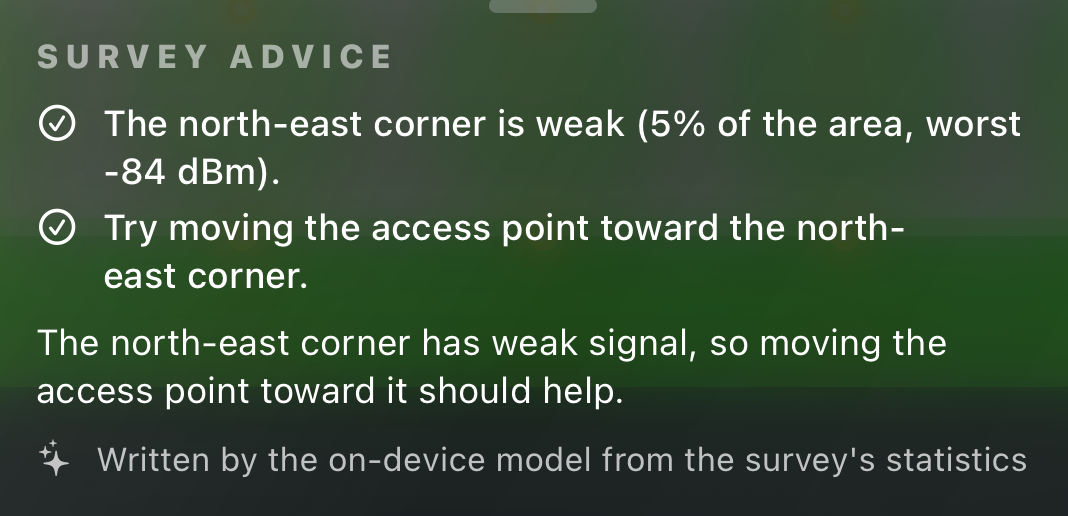
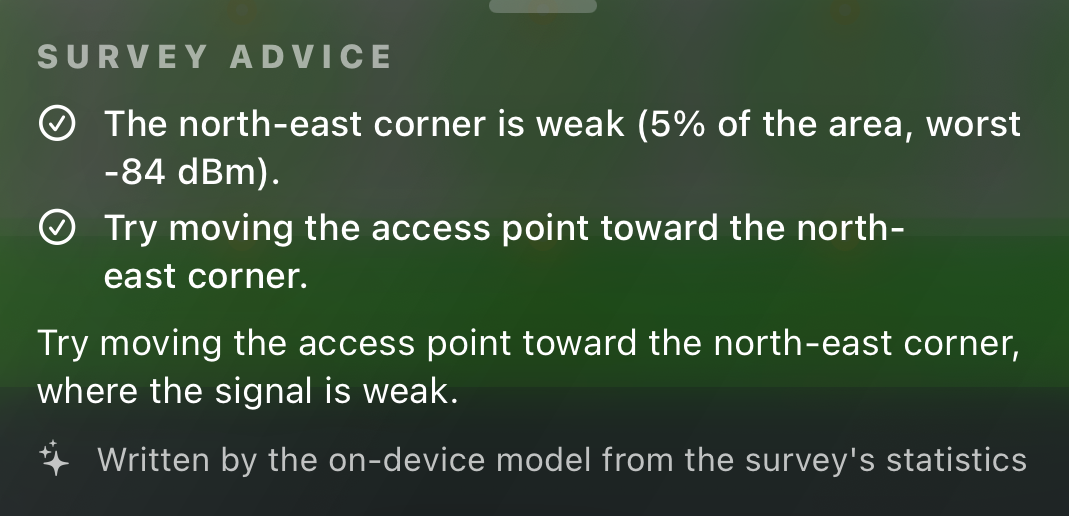
Evidence for #455 after lead review: re-captured screenshots, probe source and output

diff --git a/probe-main.swift b/probe-main.swift
@@ -1,0 +1,61 @@
+import Foundation
+import NetMonitorCore
+
+// #455 real-model probe: three synthetic surveys through the shipped InsightService, checked the
+// way the card checks them (InsightSummarizer, then HeatmapAdvisorRequest.accepts).
+
+let plan = FloorPlan(imageData: Data(), widthMeters: 12, heightMeters: 9, pixelWidth: 120, pixelHeight: 90)
+
+func lattice(_ rssi: (Double, Double) -> Int, bssid: (Double, Double) -> String? = { _, _ in "AA:BB:CC:DD:EE:01" }) -> [MeasurementPoint] {
+    stride(from: 0.0, through: 1.0, by: 0.25).flatMap { y in
+        stride(from: 0.0, through: 1.0, by: 0.25).map { x in
+            MeasurementPoint(floorPlanX: x, floorPlanY: y, rssi: rssi(x, y), bssid: bssid(x, y))
+        }
+    }
+}
+
+// 1. Weak north-east corner, one AP.
+let weakCorner = lattice { x, y in x >= 0.75 && y <= 0.25 ? -84 : -52 }
+// 2. Large weak south half, two APs, rooms labelled.
+let roomPlan = FloorPlan(imageData: Data(), widthMeters: 12, heightMeters: 9, pixelWidth: 120, pixelHeight: 90,
+                         roomLabels: [RoomLabel(text: "Kitchen", normalizedX: 0.2, normalizedY: 0.2),
+                                      RoomLabel(text: "Garage", normalizedX: 0.5, normalizedY: 0.85)])
+let weakSouth = lattice({ _, y in y >= 0.75 ? -82 : -58 }, bssid: { x, _ in x < 0.9 ? "AA:BB:CC:DD:EE:01" : "AA:BB:CC:DD:EE:2F" })
+// 3. Good everywhere.
+let allGood = lattice { x, y in -48 - Int((x + y) * 8) }
+
+let surveys: [(String, [MeasurementPoint], FloorPlan)] = [
+    ("weak north-east corner, one AP", weakCorner, plan),
+    ("weak south (Garage room label), two APs", weakSouth, roomPlan),
+    ("good everywhere", allGood, plan)
+]
+let service = InsightService.shared
+print("model available: \(service.isAvailable)")
+for (name, points, floorPlan) in surveys {
+    guard case let .ready(advisor) = HeatmapAdvisorBuilder.advice(
+        points: points, floorPlan: floorPlan, accessPointNames: ["AA:BB:CC:DD:EE:01": "Living Room AP"]
+    ) else {
+        print("\(name): sparse")
+        continue
+    }
+    let request = advisor.request
+    print("\n=== \(name)")
+    print("--- key points shown on the card:")
+    for point in advisor.keyPoints {
+        print("* \(point)")
+    }
+    print("--- prompt to the model:")
+    print(request.prompt)
+    var raw = ""
+    for await update in service.explain(request) {
+        if case let .finished(text) = update {
+            raw = text
+        }
+    }
+    print("--- raw model text:\n\(raw)")
+    print("grounded: \(InsightGrounding.isGrounded(raw, in: request)), clean: \(InsightTextFilter.isClean(raw, in: request))")
+    print("places and action check: \(advisor.accepts(raw) ? "PASS" : "REJECTED")")
+    let summary = await InsightSummarizer.summary(for: request, service: service, timeout: .seconds(20))
+    let shown = summary.flatMap { advisor.accepts($0) ? $0 : nil }
+    print("card shows model text: \(shown == nil ? "NO (dropped)" : "YES")")
+}
